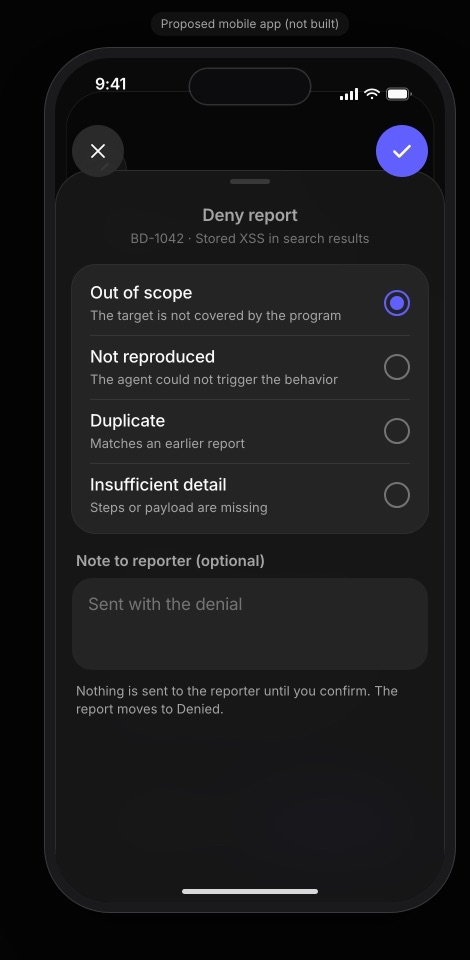
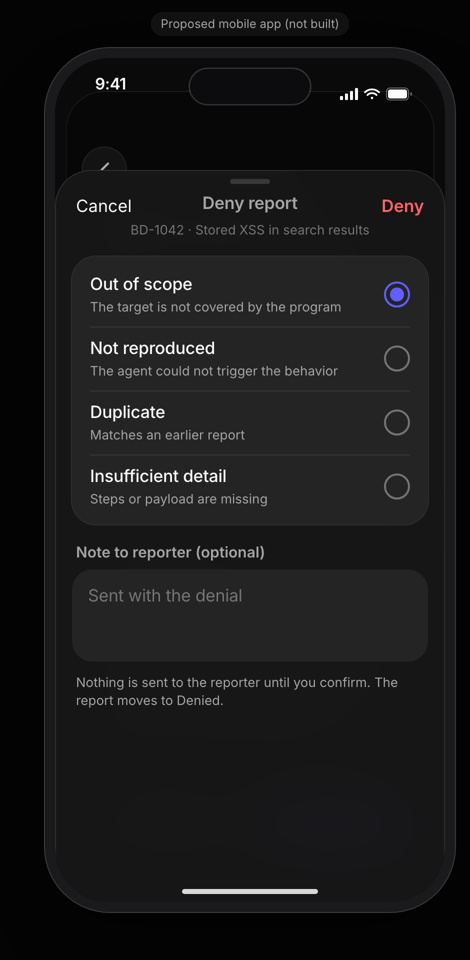
docs(site): put Cancel and Deny in the M13 sheet header

diff --git a/docs/site/screens/m13.html b/docs/site/screens/m13.html
@@ -23,10 +23,9 @@
 <div class="fbar glass"><button class="btn sec" type="button" data-sheet-open="deny">Deny</button><button class="btn" type="button" data-haptic="success" data-toast="Approved. Sending to GitHub" data-then="m12.html">Approve</button></div>
 </div>
 <div class="sheet" id="deny" role="dialog" aria-modal="true" aria-label="Deny report" data-open>
-<button class="sbtn x" type="button" data-go="m11.html" data-kind="pop" aria-label="Cancel"><i data-icon="x" style="width:24px;height:24px"></i></button>
-<button class="sbtn ok" type="button" data-sheet-confirm data-haptic="warning" data-toast="Denied. Nothing was sent" data-then="m4.html" data-kind="tab" aria-label="Deny report"><i data-icon="check" style="width:26px;height:26px;stroke-width:2.4"></i></button>
 <div class="grab"></div>
-<div class="st">Deny report</div><div class="ss">BD-1042 · Stored XSS in search results</div>
+<div class="shd"><button class="shd-b" type="button" data-go="m11.html" data-kind="pop">Cancel</button><div class="st">Deny report</div><button class="shd-b r" type="button" data-sheet-confirm data-haptic="warning" data-toast="Denied. Nothing was sent" data-then="m4.html" data-kind="tab">Deny</button></div>
+<div class="ss">BD-1042 · Stored XSS in search results</div>
 <div class="card list" role="radiogroup" aria-label="Reason"><label class="item"><span class="main"><span class="t">Out of scope</span><span class="s">The target is not covered by the program</span></span><input type="radio" name="r" class="rd" checked></label><label class="item"><span class="main"><span class="t">Not reproduced</span><span class="s">The agent could not trigger the behavior</span></span><input type="radio" name="r" class="rd"></label><label class="item"><span class="main"><span class="t">Duplicate</span><span class="s">Matches an earlier report</span></span><input type="radio" name="r" class="rd"></label><label class="item"><span class="main"><span class="t">Insufficient detail</span><span class="s">Steps or payload are missing</span></span><input type="radio" name="r" class="rd"></label></div>
 <label class="lbl" for="note-m13">Note to reporter (optional)</label>
 <textarea class="field area" id="note-m13" placeholder="Sent with the denial"></textarea>

diff --git a/docs/site/screens/c.css b/docs/site/screens/c.css
@@ -60,6 +60,7 @@
    Overlays
    .toast            injected by c.js                    data-toast="Saved"
    .sheet            bottom sheet; .fit = height by content; children .grab .sbtn.x .sbtn.ok .st .ss
+                    or a header row: .shd (.shd-b Cancel, .st title, .shd-b.r action) then .ss, no floating .sbtn
                      <div class="sheet" id="deny" role="dialog" aria-label="Deny report">...</div>
    .scrim            injected by c.js (tap to dismiss)
    .lp-hit .lift .menu   long press overlay, built by c.js from data-lp
@@ -345,6 +346,13 @@ svg.i{width:22px;height:22px;fill:none;stroke:currentColor;stroke-width:1.8;stro
 .sbtn.x{left:16px}.sbtn.ok{right:16px}
 .sheet .st{padding-top:34px;text-align:center;font:600 1.0625rem/1.2 var(--font-sans);color:var(--muted)}
 .sheet .ss{text-align:center;font-size:.8125rem;color:var(--faint);margin:4px 0 18px;letter-spacing:0}
+.sheet .shd{display:flex;align-items:flex-start;padding-top:22px;margin:0 4px}
+.sheet .shd .st{flex:1;padding-top:0}
+.shd-b{width:72px;padding:2px 0 0;font:400 1.0625rem/22px var(--font-sans);letter-spacing:0;color:var(--fg);text-align:left;cursor:pointer}
+.shd-b.r{text-align:right;font-weight:600;color:var(--red)}
+.pf-android .sheet .shd{padding-top:28px}
+.pf-android .shd-b{font:500 .875rem/22px var(--font-sans);letter-spacing:.1px;color:var(--brand-soft)}
+.pf-android .shd-b.r{color:var(--red)}
 .sheet .item{min-height:4rem;padding:10px 18px}
 .sheet .item .s{white-space:normal}
 .sheet .list{margin:0}

diff --git a/docs/site/mvp-mindmap.html b/docs/site/mvp-mindmap.html
@@ -38,7 +38,7 @@ const tree = {c:'BountyDesk mobile', n:'Proposed React Native app, 28 screens, n
   {c:'Approve', n:"The heart of the product: sign the exact drafted comment", side:1, cls:'plan', h:m('awaiting-approval'), flow:true, k:[
     {c:'M11 Sign the verdict', n:"Desktop: /review. Exact comment, content hash, approve or deny.", i:'../assets/thumbs/m11', s:'mindmap-thumbs/', url:'screens/m11.html', phone:true},
     {c:'M12 Verdict approved', n:"Desktop: /review result. Delivery receipt.", i:'../assets/thumbs/m12', s:'mindmap-thumbs/', url:'screens/m12.html', phone:true},
-    {c:'M13 Deny verdict', n:"Desktop: /review deny. The deny reasons in a sheet over the sign screen.", i:'../assets/thumbs/m13', s:'mindmap-thumbs/', url:'screens/m13.html', phone:true},
+    {c:'M13 Deny verdict', n:"Desktop: /review deny. The deny reasons in a sheet over the sign screen, Cancel and Deny in its header.", i:'../assets/thumbs/m13', s:'mindmap-thumbs/', url:'screens/m13.html', phone:true},
   ]},
   {c:'Connect and configure', n:"Access and delivery channels", side:1, cls:'status', h:m('scanning'), flow:true, k:[
     {c:'M14 Connections', n:"Desktop: /connections. GitHub installs.", i:'../assets/thumbs/m14', s:'mindmap-thumbs/', url:'screens/m14.html', phone:true},
